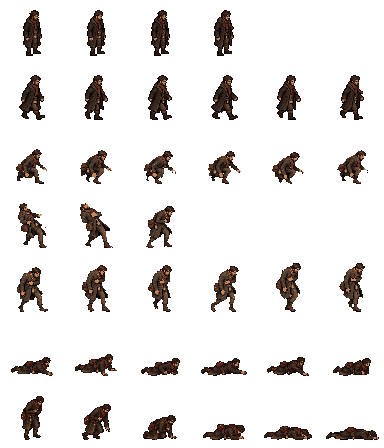
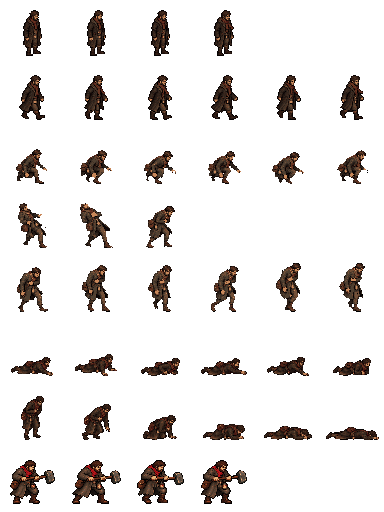
Deliver hit and mace effects plus Thomas careful-step row

diff --git a/assets/effects/hits/production/export.py b/assets/effects/hits/production/export.py
@@ -1,0 +1,62 @@
+from PIL import Image
+from pathlib import Path
+import json,sys
+
+def spans(v,gap=3):
+ pts=[i for i,x in enumerate(v) if x];out=[]
+ for i in pts:
+  if not out or i-out[-1][-1]>gap:out.append([i])
+  else:out[-1].append(i)
+ return [(x[0],x[-1]+1) for x in out]
+
+def loadrows(p,ys=None,counts=None,equal=False):
+ im=Image.open(p).convert('RGBA');im.putalpha(im.getchannel('A').point(lambda a:255 if a>=128 else 0));a=im.getchannel('A')
+ yy=list(zip(ys,ys[1:])) if ys else spans([a.crop((0,y,im.width,y+1)).getbbox() is not None for y in range(im.height)],4)
+ rows=[]
+ for ri,(y0,y1) in enumerate(yy):
+  band=im.crop((0,y0,im.width,y1));ba=band.getchannel('A')
+  xx=[(round(i*im.width/counts[ri]),round((i+1)*im.width/counts[ri])) for i in range(counts[ri])] if equal else spans([ba.crop((x,0,x+1,ba.height)).getbbox() is not None for x in range(ba.width)],3)
+  xx=[(x0,x1) for x0,x1 in xx if x1-x0>=20]
+  row=[]
+  for x0,x1 in xx:
+   f=band.crop((x0,0,x1,band.height));b=f.getbbox()
+   if b:row.append(f.crop(b))
+  if counts:assert len(row)==counts[ri],(str(p),ri,len(row),counts[ri])
+  rows.append(row)
+ return rows
+
+def export(rows,target,size=64,scales=None,counts=None,root=None):
+ root=root or(size//2,size//2 if size!=64 else 56)
+ out=Image.new('RGBA',(max(map(len,rows))*size,len(rows)*size))
+ for r,row in enumerate(rows):
+  sc=scales[r] if scales else min((size-4)/max(f.width for f in row),(size-4)/max(f.height for f in row))
+  for c,f in enumerate(row):
+   f=f.resize((max(1,round(f.width*sc)),max(1,round(f.height*sc))),Image.Resampling.NEAREST)
+   x=root[0]-f.width//2;y=root[1]-f.height if size==64 and root[1]==56 else root[1]-f.height//2
+   assert x>=0 and y>=0 and x+f.width<=size and y+f.height<=size,(r,c,f.size,(x,y))
+   out.paste(f,(c*size+x,r*size+y))
+ a=out.getchannel('A');out=out.convert('RGB').quantize(colors=47,dither=Image.Dither.NONE).convert('RGBA');out.putalpha(a)
+ clear=Image.new('RGBA',out.size);clear.paste(out,mask=a);out=clear
+ out.save(target);return out
+def crops(file,ys,xrows):
+ im=Image.open(file).convert('RGBA');im.putalpha(im.getchannel('A').point(lambda a:255 if a>=128 else 0));rows=[]
+ for (y0,y1),xs in zip(zip(ys,ys[1:]),xrows):
+  row=[]
+  for x0,x1 in zip(xs,xs[1:]):
+   f=im.crop((x0,y0,x1,y1));b=f.getbbox();assert b,(str(file),y0,x0);row.append(f.crop(b))
+  rows.append(row)
+ return rows
+p=Path('assets/effects/hits');rows=crops(p/'production/hits-master.png',[0,270,525,735,1024],[[0,405,720,1090,1536]]*3+[[0,180,470,775,1030,1290,1536]])
+for name,row in zip(['crushing','slashing','piercing','tier_3'],rows):
+ im=export([row],p/(name+'.png'),size=64,root=(32,32));im.resize((im.width*3,192),Image.Resampling.NEAREST).save(p/'production'/(name+'-3x.png'))
+p=Path('assets/effects/mace');rows=crops(p/'production/effects-master.png',[0,225,460,725,1024],[[0,300,590,815,1040,1285,1536],[0,470,770,1100,1536],[0,250,550,930,1210,1536],[0,345,800,1180,1536]])
+for name,row,size in zip(['dazed','fracture','wall_slam','wide_arc'],rows,[32,32,64,96]):
+ im=export([row],p/(name+'.png'),size=size,root=(size//2,size//2));im.resize((im.width*3,im.height*3),Image.Resampling.NEAREST).save(p/'production'/(name+'-3x.png'))
+arm=Image.open(p/'production/armour-master.png');w,h=arm.size;rows=crops(p/'production/armour-master.png',[0,round(h/3),round(2*h/3),h],[[round(i*w/7) for i in range(8)]]*3)
+for name,row in zip(['helm','pauldron','breastplate'],rows):
+ full=export([row],p/'production'/(name+'-strip.png'),size=32)
+ full.crop((0,0,192,32)).save(p/(name+'_break.png'));full.crop((192,0,224,32)).save(p/(name+'_rest.png'))
+p=Path('assets/characters/thomas/production/careful-step');rows=loadrows(p/'master.png',counts=[4]);sc=min(44/max(f.height for f in rows[0]),60/max(f.width for f in rows[0]));step=export(rows,p/'row.png',scales=[sc]);step.resize((1024,256),Image.Resampling.NEAREST).save(p/'row-4x.png')
+target=p.parent.parent/'body.png';old=Image.open(target).convert('RGBA');assert old.size in [(384,448),(384,512)]
+new=Image.new('RGBA',(384,512));new.paste(old.crop((0,0,384,448)),(0,0));new.paste(step,(0,448));assert new.crop((0,0,384,448)).tobytes()==old.crop((0,0,384,448)).tobytes();new.save(target)
+print('Exported hit effects, mace effects, armour debris and careful-step row')

diff --git a/assets/effects/mace/production/README.md b/assets/effects/mace/production/README.md
@@ -1,0 +1,15 @@
+# Mace-effect sources
+
+| File | Layout |
+| --- | --- |
+| effects-master.png |1536×1024 source; dazed6,fracture4,wall slam5,Wide Arc4 |
+| armour-master.png |1838×840 source; helm,pauldron,breastplate rows,each6 clatter frames plus1 resting |
+| dazed-3x.png |96×96 preview frames,6 |
+| fracture-3x.png |96×96 preview frames,4 |
+| wall_slam-3x.png |192×192 preview frames,5 |
+| wide_arc-3x.png |288×288 preview frames,4 |
+| helm-strip.png |32×32 cells,one row of7 including resting |
+| pauldron-strip.png |32×32 cells,one row of7 including resting |
+| breastplate-strip.png |32×32 cells,one row of7 including resting |
+
+Built-in imagegen prompts: ivory/slate ringing ellipses without cartoon stars; sharp ivory fracture crack; directional wet-brown/slate wall grit; heavy iron-grey arc smear; plain iron helm,pauldron and breastplate rotating,falling,impacting,bouncing,settling plus resting sprite. Hard pixel edges,transparent background,no text/grid/modern gear. Mechanical export lives in ../../hits/production/export.py. Size/count/alpha and enlarged silhouette inspection completed. Sources are excluded with .gdignore.

diff --git a/assets/effects/mace/README.md b/assets/effects/mace/README.md
@@ -1,0 +1,18 @@
+# Mace effects
+
+Each strip has one row,frames left to right,no gaps,genuine transparency,binary alpha and hard pixel edges. Pivot is frame centre. Directional effects face right; game may mirror.
+
+| File | Frame | Frames / canvas |
+| --- | --- | --- |
+| dazed.png |32×32 |6 /192×32; loop above head,no cartoon stars |
+| fracture.png |32×32 |4 /128×32 |
+| wall_slam.png |64×64 |5 /320×64 |
+| wide_arc.png |96×96 |4 /384×96 |
+| helm_break.png |32×32 |6 /192×32 |
+| pauldron_break.png |32×32 |6 /192×32 |
+| breastplate_break.png |32×32 |6 /192×32 |
+| helm_rest.png |32×32 |1 /32×32 |
+| pauldron_rest.png |32×32 |1 /32×32 |
+| breastplate_rest.png |32×32 |1 /32×32 |
+
+Suggested10fps for impacts/debris,6fps for dazed. Dazed progressively dims before restarting; its final frame is deliberately faint. After debris frame6,spawn the matching resting sprite on the floor. Only dazed loops; all others are one-shots. Claude should place wall slam at collision,fracture at hit point,and Wide Arc around the attacker. No code changes included.

diff --git a/assets/characters/thomas/production/careful-step/README.md b/assets/characters/thomas/production/careful-step/README.md
@@ -1,0 +1,5 @@
+# Careful step — job7c
+
+master.png:generated2060×824 reference canvas,one row,four poses with variable gutters. row.png:256×64,four64×64 cells. row-4x.png:1024×256,four256×256 preview cells. All face right. .gdignore excludes production sources.
+
+Built-in imagegen edit using the mace attack source as identity/weapon reference: canonical Thomas,guarded cautious sidestep in4 poses,heavy iron block maul held across chest in both hands throughout,fixed anatomy,red scarf,greatcoat,satchel and amber belt lantern,transparent hard pixel art. Nearest export with fixed source scale,binary alpha,palette reduction,no smoothing. Row appended as body.png row8,counts4,root(32,56); first seven rows verified byte-for-byte unchanged. Export source is assets/effects/hits/production/export.py. Claude should replace the unarmed body during careful step because this row includes the maul. Suggested6fps,non-looping.

diff --git a/assets/effects/hits/production/README.md b/assets/effects/hits/production/README.md
@@ -1,0 +1,5 @@
+# Hit-effect sources
+
+hits-master.png:1536×1024 variable-gutter source,rows crushing4/slashing4/piercing4/tier3 six. crushing-3x.png,slashing-3x.png,piercing-3x.png:twelve192×192 preview cells across their three separate strips. tier_3-3x.png:six192×192 preview cells. export.py:mechanical export for hits,mace and careful step; run from repository root. .gdignore excludes sources from runtime.
+
+Built-in imagegen prompt: sharp angular ivory contact cores,slate/charcoal grit,muted amber dust,distinct crushing/slashing/piercing growth and decay,larger six-frame tier3 burst,transparent isolated pixel effects,no scenery/text/blur. Export uses nearest sampling,shared47-colour palette per strip,binary alpha and cleared hidden RGB. Dimensions,counts,alpha and enlarged full contact-sheet review passed. Final effect timing is for Claude.

diff --git a/assets/effects/hits/README.md b/assets/effects/hits/README.md
@@ -1,0 +1,12 @@
+# Hit effects
+
+All PNGs have64×64 frames in one row,left to right,no gaps,transparent backgrounds,binary alpha,hard pixel edges. Pivot at(32,32). Effects expand and disperse without text or floating numbers.
+
+| File | Canvas | Frames |
+| --- | --- | --- |
+| crushing.png |256×64 |4 |
+| slashing.png |256×64 |4 |
+| piercing.png |256×64 |4 |
+| tier_3.png |384×64 |6 |
+
+Right-oriented where directional; the game can mirror. Suggested12fps,non-looping; remove after final frame. Claude wires the appropriate damage type and tier. Generated sources and enlarged previews are in production/. No code changes included.
